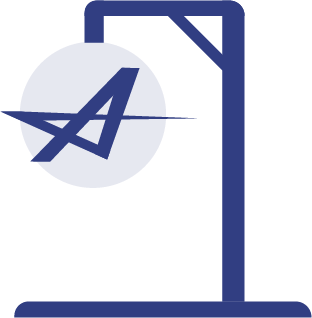
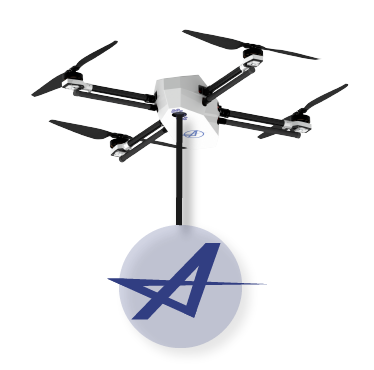
Updated overall code

diff --git a/assets/javascript/game.js b/assets/javascript/game.js
@@ -1,31 +1,107 @@
-    //Possible words to get
-    var possibleWords = ["Drone", "Aeronyde", "Unmanned", "Autonomous", "Limitless"];
+// 1.    Pick a random word.
 
-  // create alphabet ul
- var word = possibleWords [Math.floor (Math.random() * possibleWords.length)];
+// 2.    Take the player’s guess.
 
- var answerArray = [];
- for (var i = 0; i < word.length; i++){
-    answerArray[i] = "_";
- }
+// 3.    Quit the game if the player wants to.
 
- var remainingLetters = word.length;
+// 4.    Check that the player’s guess is a valid letter.
 
- while (remainingLetters > 0) {
-     var el = document.getElementById ("demo");
-     el.innerHTML = answerArray.join(" ");
+// 5.    Else Show Hangman Image (1,2,3,4,5)
 
-var guess = prompt ("Press any key to get started!");
-if (guess === null){
-    break;
-} else {
-    for (var j = 0; j < word.length; j++) {
-        if (word[j] === guess){
-            answerArray[j] = guess;
-            remainingLetters--;
+// 6.    Keep track of letters the player has guessed.
+
+// 7.    Show the player their progress.
+
+// 8.    Finish when the player has guessed the word.
+
+
+// VARIABLES
+// ==========================================================================
+
+var winCount = document.getElementById("win_count");
+var current = document.getElementById("current_word");
+var guessesLeft = document.getElementById("guesses_left");
+var lettersGuessed = document.getElementById("letters_guessed");
+
+
+var aeronyde = {
+
+    listOfWords: ["drone", "aeronyde", "unmanned", "autonomous", "limitless"],
+
+    pickedWord: '',
+    wins: 0,
+    losses: 0,
+    guessedLetters: [],
+    guessRemaining: 0,
+    placeHolder: '',
+    dashes: "_",
+    buffer: -2,
+
+    gameStart: function () {
+        writeDocument();
+    },
+
+    gameReset: function () {
+        this.guessedLetters = [];
+        this.pickedWord = this.listOfWords[Math.floor(Math.random() * this.listOfWords.length)];
+        this.guessRemaining = this.pickedWord.length + this.buffer;
+        this.placeHolder = this.dashes.repeat(this.pickedWord.length);
+        console.log("current word: " + this.pickedWord);
+    },
+
+    userInput: function (letterGuessed) {
+
+        if (this.guessedLetters.indexOf(letterGuessed) == -1) {
+            if (this.pickedWord.includes(letterGuessed)) {
+
+                var characterArray = this.placeHolder.split('');
+
+                for (var i = 0; i < this.pickedWord.length; i++) {
+                    if (this.pickedWord[i] === letterGuessed) {
+                        characterArray[i] = letterGuessed;
+                    }
+                }
+                this.placeHolder = characterArray.join('');
+
+                if (this.pickedWord === this.placeHolder) {
+                    this.wins++;
+                    this.gameReset();
+                }
+
+            } else {
+                this.guessedLetters.push(letterGuessed);
+                this.guessRemaining--;
+
+                if (this.guessRemaining == 0) {
+                    alert("You lose!");
+                    this.losses++;
+                    this.gameReset();
+                }
+            }
+
+            writeDocument();
+
         }
-    }
-}
- }
 
-console.log (possibleWords);
+    }
+
+};
+
+aeronyde.gameReset();
+
+aeronyde.gameStart();
+
+function writeDocument() {
+    winCount.textContent = aeronyde.wins;
+    current.textContent = aeronyde.placeHolder.split('').join(" ");
+    guesses_left.textContent = aeronyde.guessRemaining;
+    lettersGuessed.textContent = aeronyde.guessedLetters.join(" ");
+}
+
+
+document.onkeyup = function (event) {
+
+    var characterGuess = event.key;
+
+    aeronyde.userInput(characterGuess);
+}

diff --git a/index.html b/index.html
@@ -6,7 +6,7 @@
     <meta name="viewport" content="width=device-width, initial-scale=1.0">
     <meta http-equiv="X-UA-Compatible" content="ie=edge">
     <title>Hangman-hw</title>
-    <script src="./assets/javascript/game.js"></script>
+    
     <link rel="stylesheet" href="./assets/css/style.css">
     <link rel="stylesheet" href="https://maxcdn.bootstrapcdn.com/bootstrap/4.0.0/css/bootstrap.min.css" integrity="sha384-Gn5384xqQ1aoWXA+058RXPxPg6fy4IWvTNh0E263XmFcJlSAwiGgFAW/dAiS6JXm"
     crossorigin="anonymous">
@@ -47,26 +47,34 @@
                         <p class="font2">
                             Wins:
                         </p>
-                        <p class="display1">
+                        <p id="win_count">
                         </p>
+
                         <p class="font3">
                         Current Word
                         </p>
+                    <p id="current_word"></p>
+
                         <p class="display2">
                         </p>
+
                         <p class="font4">
                         Number of Guesses Remaining
                         </p>
+                    <p id="guesses_left"></p>
+
                         <p class="display3">
                         </p>
+
                         <p class="font5">
                         Letters Already Guessed
                         </p>
+                          <p id="letters_guessed"></p>
                         <p class="display4">
                         </p>
                     </div>
                     <div class="col">
-                     <img src="./assets/images/Hangman-1.png" alt="Hangman-1">
+                     <img src="./assets/images/Hangman-6.png" alt="Hangman-1">
                     </div>
                 </div>
         </div>
@@ -74,5 +82,17 @@
             <p>All Rights Reserved &#169; </p>
         </footer>
 </body>
+<script src="./assets/javascript/game.js"></script>
 
 </html>
+© 2018 GitHub, Inc.
+Terms
+Privacy
+Security
+Status
+Help
+Contact GitHub
+API
+Training
+Shop
+Blog

diff --git a/assets/css/style.css b/assets/css/style.css
@@ -40,3 +40,18 @@ footer {
     font-weight: bold;
     font-size: 21px;
 }
+
+#win_count {
+    font-family: Arial, Helvetica, sans-serif;
+    padding-left: 235px;
+}
+
+#current_word {
+    font-family: Arial, Helvetica, sans-serif;
+    padding-left: 190px;
+}
+
+#guesses_left {
+    font-family: Arial, Helvetica, sans-serif;
+    padding-left: 235px;
+}
